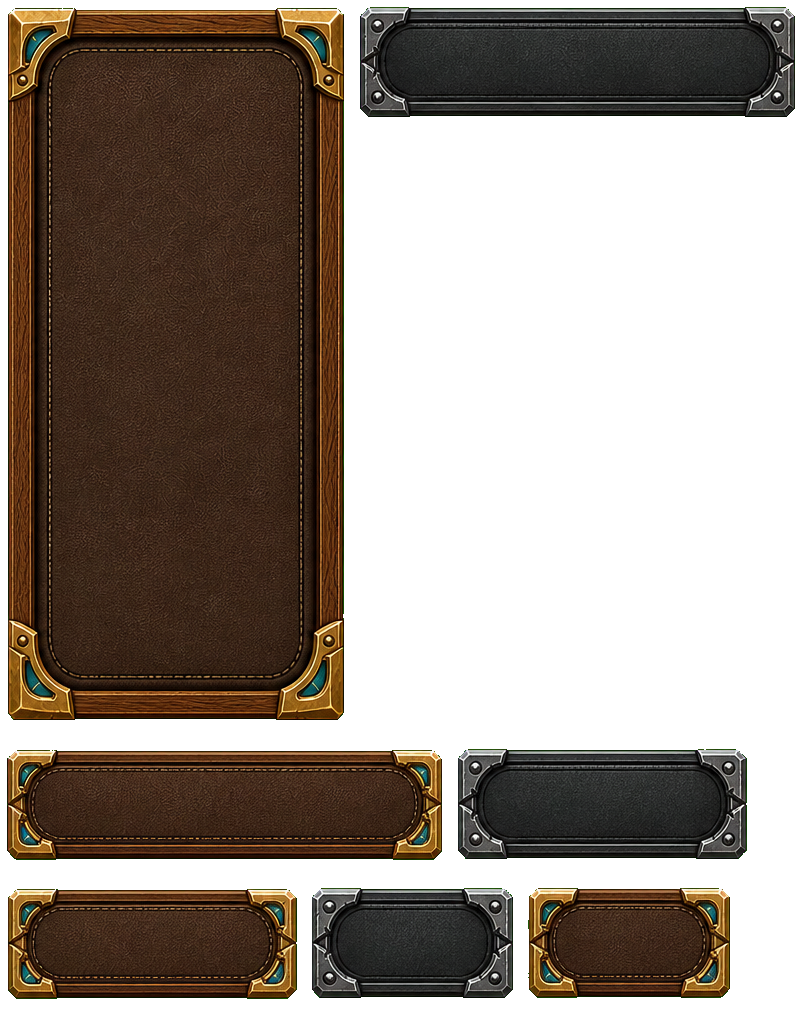
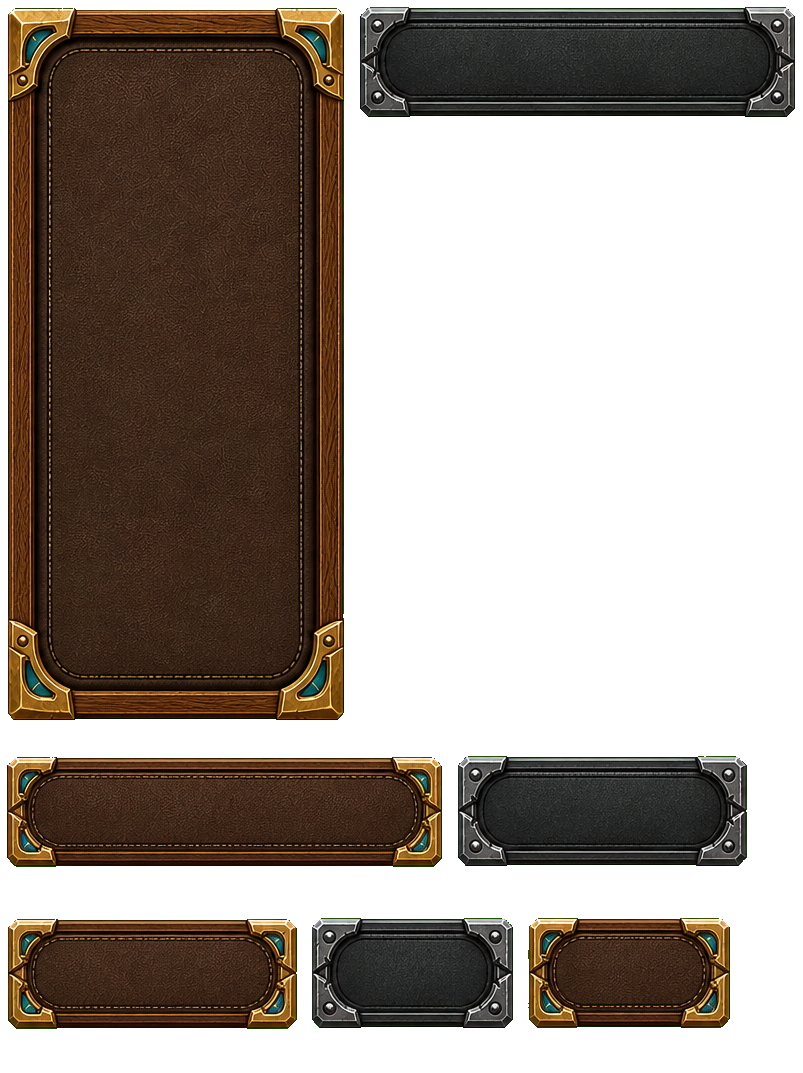
Make review atlas labels readable

diff --git a/tools/assets/build_ui_atlas_pack.py b/tools/assets/build_ui_atlas_pack.py
@@ -11,16 +11,19 @@ from typing import Any
 
 from PIL import Image
 from PIL import ImageDraw
+from PIL import ImageFont
 
 
 ROOT = Path.cwd()
 RESAMPLE_NEAREST = getattr(getattr(Image, "Resampling", Image), "NEAREST", Image.NEAREST)
-LABEL_PAD_X = 2
-LABEL_PAD_Y = 1
-LABEL_GAP_Y = 2
-LABEL_LINE_GAP_Y = 1
+LABEL_FONT_SIZE = 14
+LABEL_PAD_X = 4
+LABEL_PAD_Y = 2
+LABEL_GAP_Y = 3
+LABEL_LINE_GAP_Y = 2
 LABEL_MIN_WIDTH = 72
 LABEL_MAX_WIDTH = 220
+_LABEL_FONT: ImageFont.ImageFont | None = None
 
 
 def fail(message: str) -> None:
@@ -67,10 +70,24 @@ def positive_int(value: Any, fallback: int) -> int:
     return parsed if parsed >= 0 else fallback
 
 
+def label_font() -> ImageFont.ImageFont:
+    global _LABEL_FONT
+    if _LABEL_FONT is not None:
+        return _LABEL_FONT
+    for name in ("DejaVuSans.ttf", "Arial.ttf"):
+        try:
+            _LABEL_FONT = ImageFont.truetype(name, LABEL_FONT_SIZE)
+            return _LABEL_FONT
+        except OSError:
+            continue
+    _LABEL_FONT = ImageFont.load_default()
+    return _LABEL_FONT
+
+
 def measure_label(label: str) -> tuple[int, int]:
     probe = Image.new("RGBA", (1, 1), (0, 0, 0, 0))
     draw = ImageDraw.Draw(probe)
-    bbox = draw.textbbox((0, 0), label)
+    bbox = draw.textbbox((0, 0), label, font=label_font())
     return int(bbox[2] - bbox[0]), int(bbox[3] - bbox[1])
 
 
@@ -168,6 +185,7 @@ def prepare_review_labels(items: list[dict[str, Any]], alias_items: list[dict[st
         item["review_label"] = {
             "text": label,
             "lines": lines,
+            "font_size": LABEL_FONT_SIZE,
             "width": label_width + LABEL_PAD_X * 2,
             "height": label_height + LABEL_PAD_Y * 2,
             "gap_y": LABEL_GAP_Y,
@@ -315,6 +333,7 @@ def make_entry(item: dict[str, Any], x: int, y: int, image: Image.Image) -> dict
         entry["review_label"] = {
             "text": review_label["text"],
             "lines": list(review_label.get("lines") or [review_label["text"]]),
+            "font_size": int(review_label.get("font_size") or LABEL_FONT_SIZE),
             "rect": [label_x, label_y, int(review_label["width"]), int(review_label["height"])],
         }
     return entry
@@ -336,8 +355,9 @@ def draw_review_labels(atlas: Image.Image, entries: list[dict[str, Any]]) -> Non
             draw.rectangle([label_x, label_y, label_x + label_width - 1, label_y + label_height - 1], fill=(0, 0, 0, 170))
             line_y = label_y + LABEL_PAD_Y
             line_height = max((measure_label(line)[1] for line in lines), default=0)
+            font = label_font()
             for line in lines:
-                draw.text((label_x + LABEL_PAD_X, line_y), line, fill=(255, 255, 255, 255))
+                draw.text((label_x + LABEL_PAD_X, line_y), line, fill=(255, 255, 255, 255), font=font)
                 line_y += line_height + LABEL_LINE_GAP_Y
         draw.rectangle([rect[0], rect[1], rect[0] + rect[2] - 1, rect[1] + rect[3] - 1], outline=(255, 255, 255, 110))
 

diff --git a/tools/assets/audit_ui_atlas_pack.py b/tools/assets/audit_ui_atlas_pack.py
@@ -9,12 +9,15 @@ from typing import Any
 
 from PIL import Image
 from PIL import ImageDraw
+from PIL import ImageFont
 
 
 ROOT = Path.cwd()
-LABEL_PAD_X = 2
-LABEL_PAD_Y = 1
-LABEL_LINE_GAP_Y = 1
+LABEL_FONT_SIZE = 14
+LABEL_PAD_X = 4
+LABEL_PAD_Y = 2
+LABEL_LINE_GAP_Y = 2
+_LABEL_FONT: ImageFont.ImageFont | None = None
 
 
 def fail(message: str) -> None:
@@ -82,10 +85,24 @@ def rect_has_visible_pixel(image: Image.Image, rect: tuple[int, int, int, int]) 
     return False
 
 
+def label_font() -> ImageFont.ImageFont:
+    global _LABEL_FONT
+    if _LABEL_FONT is not None:
+        return _LABEL_FONT
+    for name in ("DejaVuSans.ttf", "Arial.ttf"):
+        try:
+            _LABEL_FONT = ImageFont.truetype(name, LABEL_FONT_SIZE)
+            return _LABEL_FONT
+        except OSError:
+            continue
+    _LABEL_FONT = ImageFont.load_default()
+    return _LABEL_FONT
+
+
 def measure_label(label: str) -> tuple[int, int]:
     probe = Image.new("RGBA", (1, 1), (0, 0, 0, 0))
     draw = ImageDraw.Draw(probe)
-    bbox = draw.textbbox((0, 0), label)
+    bbox = draw.textbbox((0, 0), label, font=label_font())
     return int(bbox[2] - bbox[0]), int(bbox[3] - bbox[1])
 
 

diff --git a/tools/assets/build_ui_atlas_pack_test.py b/tools/assets/build_ui_atlas_pack_test.py
@@ -249,6 +249,7 @@ class BuildUiAtlasPackTest(unittest.TestCase):
             entries = {entry["id"]: entry for entry in atlas_info["entries"]}
             label = entries["panel"]["review_label"]
             self.assertEqual(label["text"], "panel")
+            self.assertGreaterEqual(label["font_size"], 12)
             padded_x, padded_y, padded_w, padded_h = entries["panel"]["padded_rect"]
             label_x, label_y, label_w, label_h = label["rect"]
             self.assertGreaterEqual(label_y, padded_y + padded_h)

diff --git a/gamedesign/projects/rune-marches/reviews/rune-marches-ui-compact-bases-v5-atlas-pack.md b/gamedesign/projects/rune-marches/reviews/rune-marches-ui-compact-bases-v5-atlas-pack.md
@@ -7,19 +7,19 @@ atlases: **1**
 
 ## Atlas Efficiency
 
-- occupancy_ratio: 0.6389
-- padded_asset_ratio: 0.6
-- atlas_area: 819060
-- reserved_tile_area: 523332
+- occupancy_ratio: 0.6508
+- padded_asset_ratio: 0.5703
+- atlas_area: 861619
+- reserved_tile_area: 560731
 - padded_asset_area: 491398
 
 ## Timing
 
-- read_manifest: 0.218 ms
-- load_assets: 17.75 ms
-- pack_groups: 89.497 ms
-- total: 108.016 ms
+- read_manifest: 0.613 ms
+- load_assets: 25.701 ms
+- pack_groups: 88.495 ms
+- total: 115.329 ms
 
 ## Atlases
 
-- `ui_rune_marches_compact_bases_v5` -> `assets/runtime/rune-marches-ui-compact-bases-v5-atlas/ui_rune_marches_compact_bases_v5.png` 803x1020, entries=7, physical=7, aliases=0, occupancy=0.6389, labeled_preview=`assets/runtime/rune-marches-ui-compact-bases-v5-atlas/ui_rune_marches_compact_bases_v5-labeled.png`
+- `ui_rune_marches_compact_bases_v5` -> `assets/runtime/rune-marches-ui-compact-bases-v5-atlas/ui_rune_marches_compact_bases_v5.png` 803x1073, entries=7, physical=7, aliases=0, occupancy=0.6508, labeled_preview=`assets/runtime/rune-marches-ui-compact-bases-v5-atlas/ui_rune_marches_compact_bases_v5-labeled.png`

diff --git a/.codex/skills/generated-game-ui-assets/SKILL.md b/.codex/skills/generated-game-ui-assets/SKILL.md
@@ -200,8 +200,10 @@ It coordinates `game-visual-art-direction`, `game-asset-pipeline`, and
       reserved `review_label.rect` free space outside each asset `padded_rect`
       so the lead can name which assets to take. Long labels should keep exact
       `review_label.text` metadata and render wrapped `review_label.lines` in
-      the preview so verbose ids do not widen the atlas. This is review
-      evidence, not the game's final runtime packer.
+      the preview so verbose ids do not widen the atlas. Labels must be
+      readable at whole-atlas review size and record `review_label.font_size`;
+      tiny debug-font labels are not acceptable review evidence. This is
+      review evidence, not the game's final runtime packer.
     - review atlas audit:
       `py -3.12 tools/assets/audit_ui_atlas_pack.py --atlas-pack <atlas-pack.json> --asset-manifest <runtime-manifest> --json-output <audit.json> --report <audit.md>`
       Add `--profile` when atlas audit feels slow; it writes audit timing and
@@ -321,7 +323,8 @@ It coordinates `game-visual-art-direction`, `game-asset-pipeline`, and
   `review_label.rect` free space outside the asset `padded_rect`; do not place
   labels over the art or over other labels. Preserve the exact id and alias
   list in `review_label.text`; wrap only the rendered preview text through
-  `review_label.lines`.
+  `review_label.lines`, and keep labels readable enough for the lead to choose
+  assets directly from the atlas.
   It must not be presented as the game's final runtime atlas. Use `--profile`
   while optimizing atlas economy so reports preserve occupancy and padded-asset
   ratios instead of relying on visual guessing.

diff --git a/tools/README.md b/tools/README.md
@@ -193,7 +193,9 @@ reuses `alias_of` entries without duplicating the physical bitmap. Physical
 source labels list linked aliases so the labeled preview can be used to choose
 asset ids without guessing; long labels keep exact `review_label.text` metadata
 but render wrapped `review_label.lines` so a single verbose id does not widen
-the atlas. This output is human validation evidence, not the game's final runtime atlas packer. Record the JSON manifest in
+the atlas. Labels should use readable review text, recorded as
+`review_label.font_size`, because the preview is meant for visual selection by
+the lead, not just machine validation. This output is human validation evidence, not the game's final runtime atlas packer. Record the JSON manifest in
 `expected_outputs.atlas_pack`; final-art validation requires it for generated UI.
 `tools/assets/audit_ui_atlas_pack.py` validates the built review atlas. It
 checks coverage against the runtime asset manifest, atlas image bounds, non-

diff --git a/gamedesign/projects/rune-marches/reviews/rune-marches-ui-compact-bases-v5-atlas-pack-audit.md b/gamedesign/projects/rune-marches/reviews/rune-marches-ui-compact-bases-v5-atlas-pack-audit.md
@@ -6,7 +6,7 @@ verdict: **pass**
 
 ## Timing
 
-- total: 42.469 ms
+- total: 44.984 ms
 
 ## Atlases
 